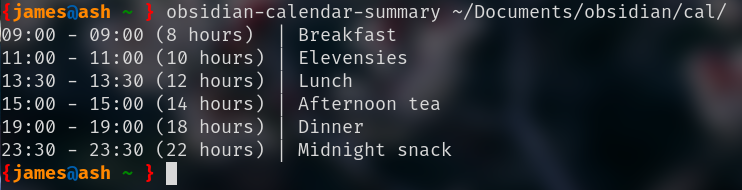
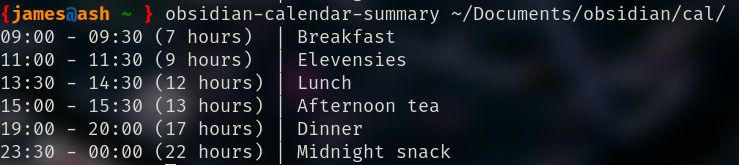
fix images + update README

diff --git a/src/main.rs b/src/main.rs
@@ -170,7 +170,7 @@ fn parse_cal_file(contents: &str) -> Result<Event, Box<dyn std::error::Error>> {
         Ok(Event::Once {
             title: get_one("title")?.into(),
             begin: get_one("startTime")?.parse()?,
-            end: get_one("startTime")?.parse()?,
+            end: get_one("endTime")?.parse()?,
             day: get_one("date")?.parse()?,
         })
     } else {

diff --git a/README.md b/README.md
@@ -2,6 +2,8 @@
 
 Program to read files generated by [Obsidian Full Calendar](https://davish.github.io/obsidian-full-calendar/) and outputs the remaining events today.
 
+`obsidian-calendar-notify` is designed to be lightweight and only depends on `chrono`, and implements a custom bare-bones yaml parser in order to be very responsive (unlike certain yaml parsers on crates.io...). This does mean that you can probably create a valid calendar file which does not get parsed correctly, however every autogenerated file should work fine. In the future this should be amended.
+
 ## Usage
 
 `obsidian-calendar-notify <path(s) to directory containing calendar notes>`
@@ -24,3 +26,4 @@ I like to add `obsidian-calendar-summary` to the end of my `.bashrc` along with 
 - [ ] Allow custom time range
 - [ ] Support multiple calendar sources
 - [ ] Improve formatting & allow custom formatting
+- [ ] Make the basic yaml parser more robust
